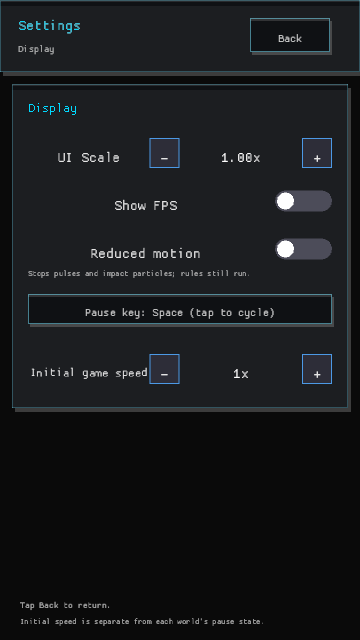
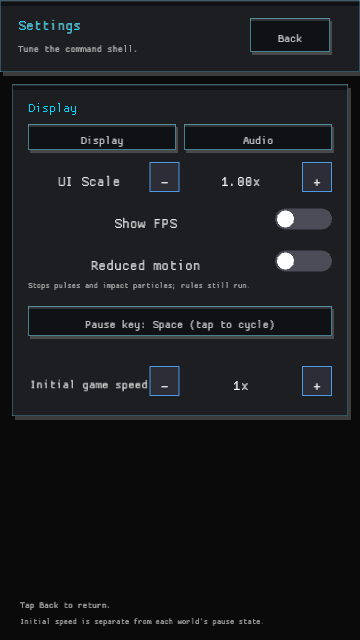
The swarm tunes its signal from every screen (audio settings, GDD 5)
The new procedural audio backend had persisted master, SFX, and music volumes but no touch-accessible controls. Added a persistent Display/Audio Settings tab layout, ten-percent volume steppers, immediate save behavior, capture fixtures, and refreshed desktop and phone verification images. Kept the existing display controls visible and updated the player documentation and audio state notes.

diff --git a/src/screens/settings_menu.rs b/src/screens/settings_menu.rs
@@ -11,8 +11,17 @@ pub enum SettingsAction {
     Back,
 }
 
+#[derive(Debug, Clone, Copy, PartialEq, Eq)]
+pub enum SettingsTab {
+    Display,
+    Audio,
+}
+
 /// Render the settings menu and return any action taken
-pub fn render_settings_menu(settings: &mut GameSettings) -> SettingsAction {
+pub fn render_settings_menu(
+    settings: &mut GameSettings,
+    selected_tab: &mut SettingsTab,
+) -> SettingsAction {
     clear_background(Colors::BACKGROUND);
 
     let screen_w = screen_width();
@@ -21,7 +30,13 @@ pub fn render_settings_menu(settings: &mut GameSettings) -> SettingsAction {
 
     draw_panel(0.0, 0.0, screen_w, header_height);
     draw_ui_text("Settings", 18.0, 30.0, 18.0, Colors::PRIMARY);
-    draw_ui_text("Display", 18.0, 52.0, 12.0, Colors::TEXT_DIM);
+    draw_ui_text(
+        "Tune the command shell.",
+        18.0,
+        52.0,
+        12.0,
+        Colors::TEXT_DIM,
+    );
 
     if draw_button_sized(screen_w - 110.0, 18.0, 80.0, 34.0, "Back") {
         return SettingsAction::Back;
@@ -33,23 +48,106 @@ pub fn render_settings_menu(settings: &mut GameSettings) -> SettingsAction {
     } else {
         320.0
     };
-    let panel_h = if mobile { 324.0 } else { 400.0 };
+    let panel_h = if mobile { 332.0 } else { 400.0 };
     let panel_y = if mobile { 84.0 } else { screen_h * 0.3 };
     let display_x = screen_w * 0.5 - panel_w * 0.5;
     let row_w = panel_w - 32.0;
     let row_h = 30.0;
-    let row_gap = 18.0;
+    let row_gap = if mobile { 12.0 } else { 18.0 };
 
     draw_panel(display_x, panel_y, panel_w, panel_h);
+    let tab_y = panel_y + 40.0;
+    let tab_gap = 8.0;
+    let tab_w = (row_w - tab_gap) * 0.5;
+    if draw_button_sized(display_x + 16.0, tab_y, tab_w, 26.0, "Display") {
+        *selected_tab = SettingsTab::Display;
+    }
+    if draw_button_sized(
+        display_x + 16.0 + tab_w + tab_gap,
+        tab_y,
+        tab_w,
+        26.0,
+        "Audio",
+    ) {
+        *selected_tab = SettingsTab::Audio;
+    }
     draw_ui_text(
-        "Display",
+        match *selected_tab {
+            SettingsTab::Display => "Display",
+            SettingsTab::Audio => "Audio",
+        },
         display_x + 16.0,
         panel_y + 28.0,
         16.0,
         Colors::PRIMARY,
     );
 
-    let scale_row = Rect::new(display_x + 16.0, panel_y + 54.0, row_w, row_h);
+    match *selected_tab {
+        SettingsTab::Display => {
+            draw_display_settings(settings, display_x, panel_y, row_w, row_h, row_gap)
+        }
+        SettingsTab::Audio => {
+            draw_audio_settings(settings, display_x, panel_y, row_w, row_h, row_gap)
+        }
+    }
+
+    if mobile {
+        draw_ui_text(
+            "Tap Back to return.",
+            20.0,
+            screen_h - 32.0,
+            11.0,
+            Colors::TEXT_DIM,
+        );
+        draw_ui_text(
+            &truncate_text_to_width(
+                match *selected_tab {
+                    SettingsTab::Display => {
+                        "Initial speed is separate from each world's pause state."
+                    }
+                    SettingsTab::Audio => "Volume changes are saved immediately.",
+                },
+                screen_w - 40.0,
+                10.0,
+            ),
+            20.0,
+            screen_h - 16.0,
+            10.0,
+            Colors::TEXT_DIM,
+        );
+    } else {
+        let footer = match *selected_tab {
+            SettingsTab::Display => {
+                "Tap Back to return. Initial speed is separate from each world's pause state."
+            }
+            SettingsTab::Audio => "Tap Back to return. Volume changes are saved immediately.",
+        };
+        draw_ui_text(
+            footer,
+            20.0,
+            screen_h - 20.0,
+            Dimensions::FONT_SIZE_SMALL,
+            Colors::TEXT_DIM,
+        );
+    }
+
+    if is_key_pressed(KeyCode::Escape) {
+        return SettingsAction::Back;
+    }
+
+    SettingsAction::None
+}
+
+fn draw_display_settings(
+    settings: &mut GameSettings,
+    display_x: f32,
+    panel_y: f32,
+    row_w: f32,
+    row_h: f32,
+    row_gap: f32,
+) {
+    let content_y = panel_y + 78.0;
+    let scale_row = Rect::new(display_x + 16.0, content_y, row_w, row_h);
     let scale_step = stepper_row(
         scale_row,
         "UI Scale",
@@ -60,17 +158,12 @@ pub fn render_settings_menu(settings: &mut GameSettings) -> SettingsAction {
             (settings.ui_text_scale + scale_step as f32 * 0.05).clamp(0.75, 1.5);
     }
 
-    let fps_row = Rect::new(
-        display_x + 16.0,
-        panel_y + 54.0 + row_h + row_gap,
-        row_w,
-        row_h,
-    );
+    let fps_row = Rect::new(display_x + 16.0, content_y + row_h + row_gap, row_w, row_h);
     toggle_row(fps_row, "Show FPS", &mut settings.show_fps);
 
     let motion_row = Rect::new(
         display_x + 16.0,
-        panel_y + 54.0 + (row_h + row_gap) * 2.0,
+        content_y + (row_h + row_gap) * 2.0,
         row_w,
         row_h,
     );
@@ -122,39 +215,57 @@ pub fn render_settings_menu(settings: &mut GameSettings) -> SettingsAction {
             settings.default_speed + 1
         };
     }
-
-    if mobile {
-        draw_ui_text(
-            "Tap Back to return.",
-            20.0,
-            screen_h - 32.0,
-            11.0,
-            Colors::TEXT_DIM,
-        );
-        draw_ui_text(
-            &truncate_text_to_width(
-                "Initial speed is separate from each world's pause state.",
-                screen_w - 40.0,
-                10.0,
-            ),
-            20.0,
-            screen_h - 16.0,
-            10.0,
-            Colors::TEXT_DIM,
-        );
-    } else {
-        draw_ui_text(
-            "Tap Back to return. Initial speed is separate from each world's pause state.",
-            20.0,
-            screen_h - 20.0,
-            Dimensions::FONT_SIZE_SMALL,
-            Colors::TEXT_DIM,
-        );
-    }
-
-    if is_key_pressed(KeyCode::Escape) {
-        return SettingsAction::Back;
-    }
-
-    SettingsAction::None
 }
+
+fn draw_audio_settings(
+    settings: &mut GameSettings,
+    display_x: f32,
+    panel_y: f32,
+    row_w: f32,
+    row_h: f32,
+    row_gap: f32,
+) {
+    draw_ui_text(
+        "Tap +/- to adjust. Changes apply immediately.",
+        display_x + 16.0,
+        panel_y + 78.0,
+        10.0,
+        Colors::TEXT_DIM,
+    );
+    let content_y = panel_y + 90.0;
+    adjust_volume_row(
+        Rect::new(display_x + 16.0, content_y, row_w, row_h),
+        "Master volume",
+        &mut settings.master_volume,
+    );
+    adjust_volume_row(
+        Rect::new(display_x + 16.0, content_y + row_h + row_gap, row_w, row_h),
+        "Sound effects",
+        &mut settings.sfx_volume,
+    );
+    adjust_volume_row(
+        Rect::new(
+            display_x + 16.0,
+            content_y + (row_h + row_gap) * 2.0,
+            row_w,
+            row_h,
+        ),
+        "Music",
+        &mut settings.music_volume,
+    );
+}
+
+fn adjust_volume_row(rect: Rect, label: &str, volume: &mut f32) {
+    let direction = stepper_row(rect, label, &format!("{:.0}%", *volume * 100.0));
+    if direction != 0 {
+        *volume = step_volume(*volume, direction);
+    }
+}
+
+fn step_volume(volume: f32, direction: i32) -> f32 {
+    let current = (volume * 10.0).round() as i32;
+    ((current + direction).clamp(0, 10) as f32) / 10.0
+}
+
+#[cfg(test)]
+mod tests;

diff --git a/src/capture_scenes/scenes.rs b/src/capture_scenes/scenes.rs
@@ -25,7 +25,14 @@ impl Game {
         self.research_state.research_progress = 0.0;
         match scene {
             "mainmenu" => self.phase = GamePhase::MainMenu,
-            "settings" => self.phase = GamePhase::Settings,
+            "settings" => {
+                self.phase = GamePhase::Settings;
+                self.settings_tab = crate::screens::SettingsTab::Display;
+            }
+            "settings_audio" | "mobile_settings_audio" => {
+                self.phase = GamePhase::Settings;
+                self.settings_tab = crate::screens::SettingsTab::Audio;
+            }
             "research" => {
                 self.phase = GamePhase::Research;
                 // A node that both moves a stat and opens a building, so the

diff --git a/src/main.rs b/src/main.rs
@@ -57,6 +57,7 @@ pub struct Game {
     research_tree: ResearchTree,
     research_state: ResearchState,
     settings: GameSettings,
+    settings_tab: screens::SettingsTab,
     audio_mix: state::AudioMix,
     audio: audio::GameAudio,
     debug_overlay: DebugOverlay,
@@ -132,6 +133,7 @@ impl Game {
             research_tree,
             research_state,
             settings,
+            settings_tab: screens::SettingsTab::Display,
             audio_mix: state::AudioMix::default(),
             audio,
             debug_overlay: DebugOverlay::new(),

diff --git a/src/state/audio.rs b/src/state/audio.rs
@@ -1,7 +1,7 @@
 //! Data-driven audio events.
 //!
-//! The shipped build deliberately has no sound files yet. Keeping event names
-//! in the simulation means a future backend can bind macroquad::audio or kira
+//! The shipped build deliberately has no sound files. Keeping event names in
+//! the simulation lets the app-owned procedural backend bind macroquad::audio
 //! without teaching gameplay about file paths, autoplay, or channel volume.
 
 #[derive(Debug, Clone, Copy, PartialEq, Eq)]

diff --git a/src/main/update.rs b/src/main/update.rs
@@ -91,7 +91,7 @@ impl Game {
 
     fn update_settings(&mut self) {
         let before = self.settings.clone();
-        let action = render_settings_menu(&mut self.settings);
+        let action = render_settings_menu(&mut self.settings, &mut self.settings_tab);
         if self.settings != before {
             self.settings.sanitize();
             display::apply_display_settings(&self.settings, Some(&before));

diff --git a/src/screens/settings_menu/tests.rs b/src/screens/settings_menu/tests.rs
@@ -1,0 +1,16 @@
+use super::*;
+
+#[test]
+fn volume_stepper_uses_ten_percent_increments_and_clamps() {
+    let mut volume = 0.3;
+    volume = step_volume(volume, 1);
+    assert_eq!(volume, 0.4);
+
+    volume = step_volume(volume, -1);
+    assert_eq!(volume, 0.3);
+
+    volume = step_volume(volume, -8);
+    assert_eq!(volume, 0.0);
+    volume = step_volume(volume, 20);
+    assert_eq!(volume, 1.0);
+}

diff --git a/README.md b/README.md
@@ -70,7 +70,8 @@ the Seed Ship yard compresses each stage into a readable card and keeps the
 diversion control visible. The portrait Solar System screen separates Worlds
 and Shipping into touch-sized tabs, with the freight controls scrollable below.
 The title and Settings screens also switch to single-column phone layouts so
-the command stack, display toggles, and pause-key control remain on-screen.
+the command stack, display toggles, audio controls, and pause-key control
+remain on-screen.
 The mobile FLOW ledger and Factory Deck use exclusive, full-width overlays;
 HELP reserves the command bar so diagnostics and recovery controls stay clear.
 
